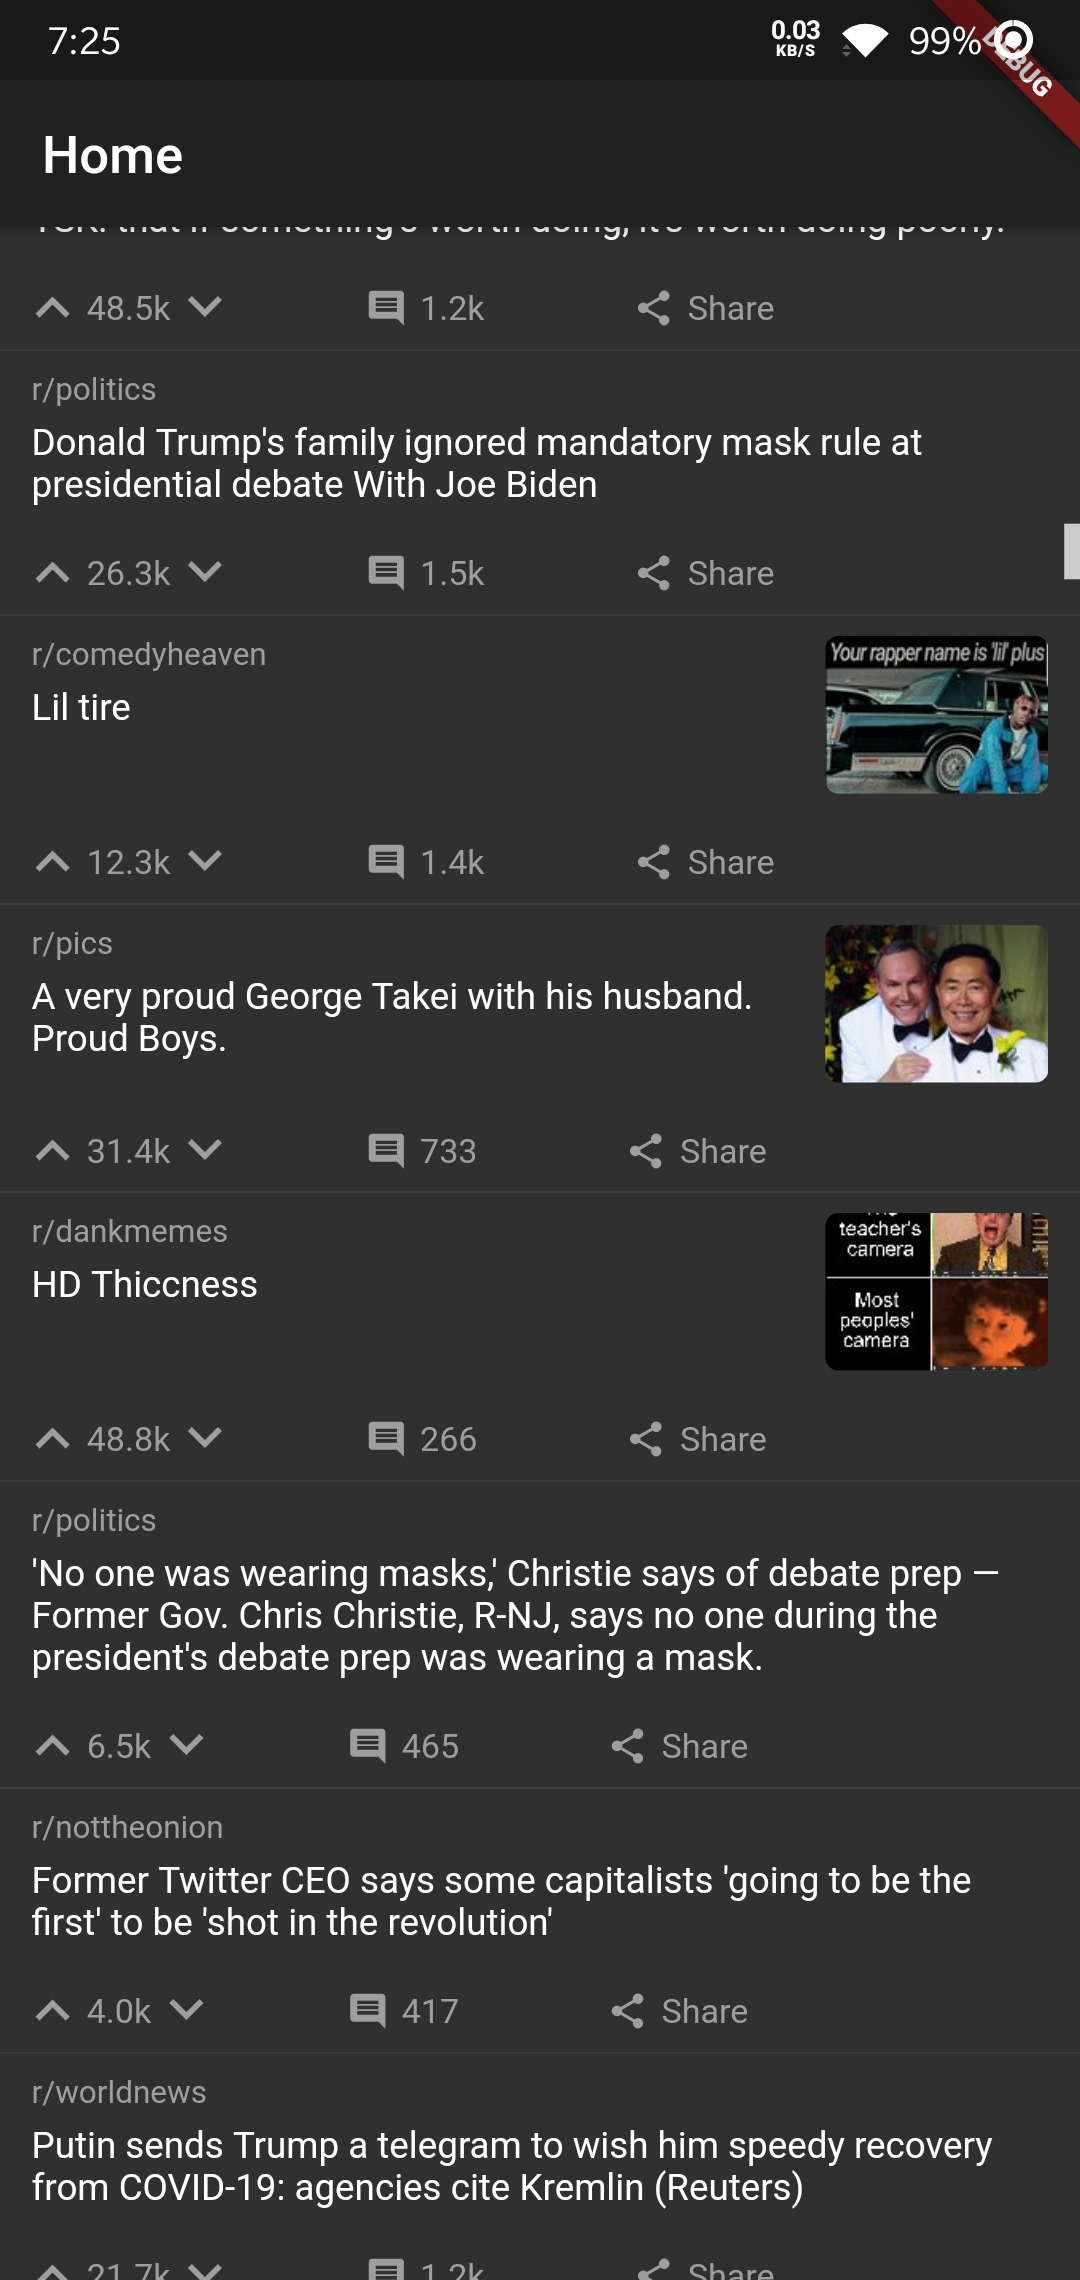
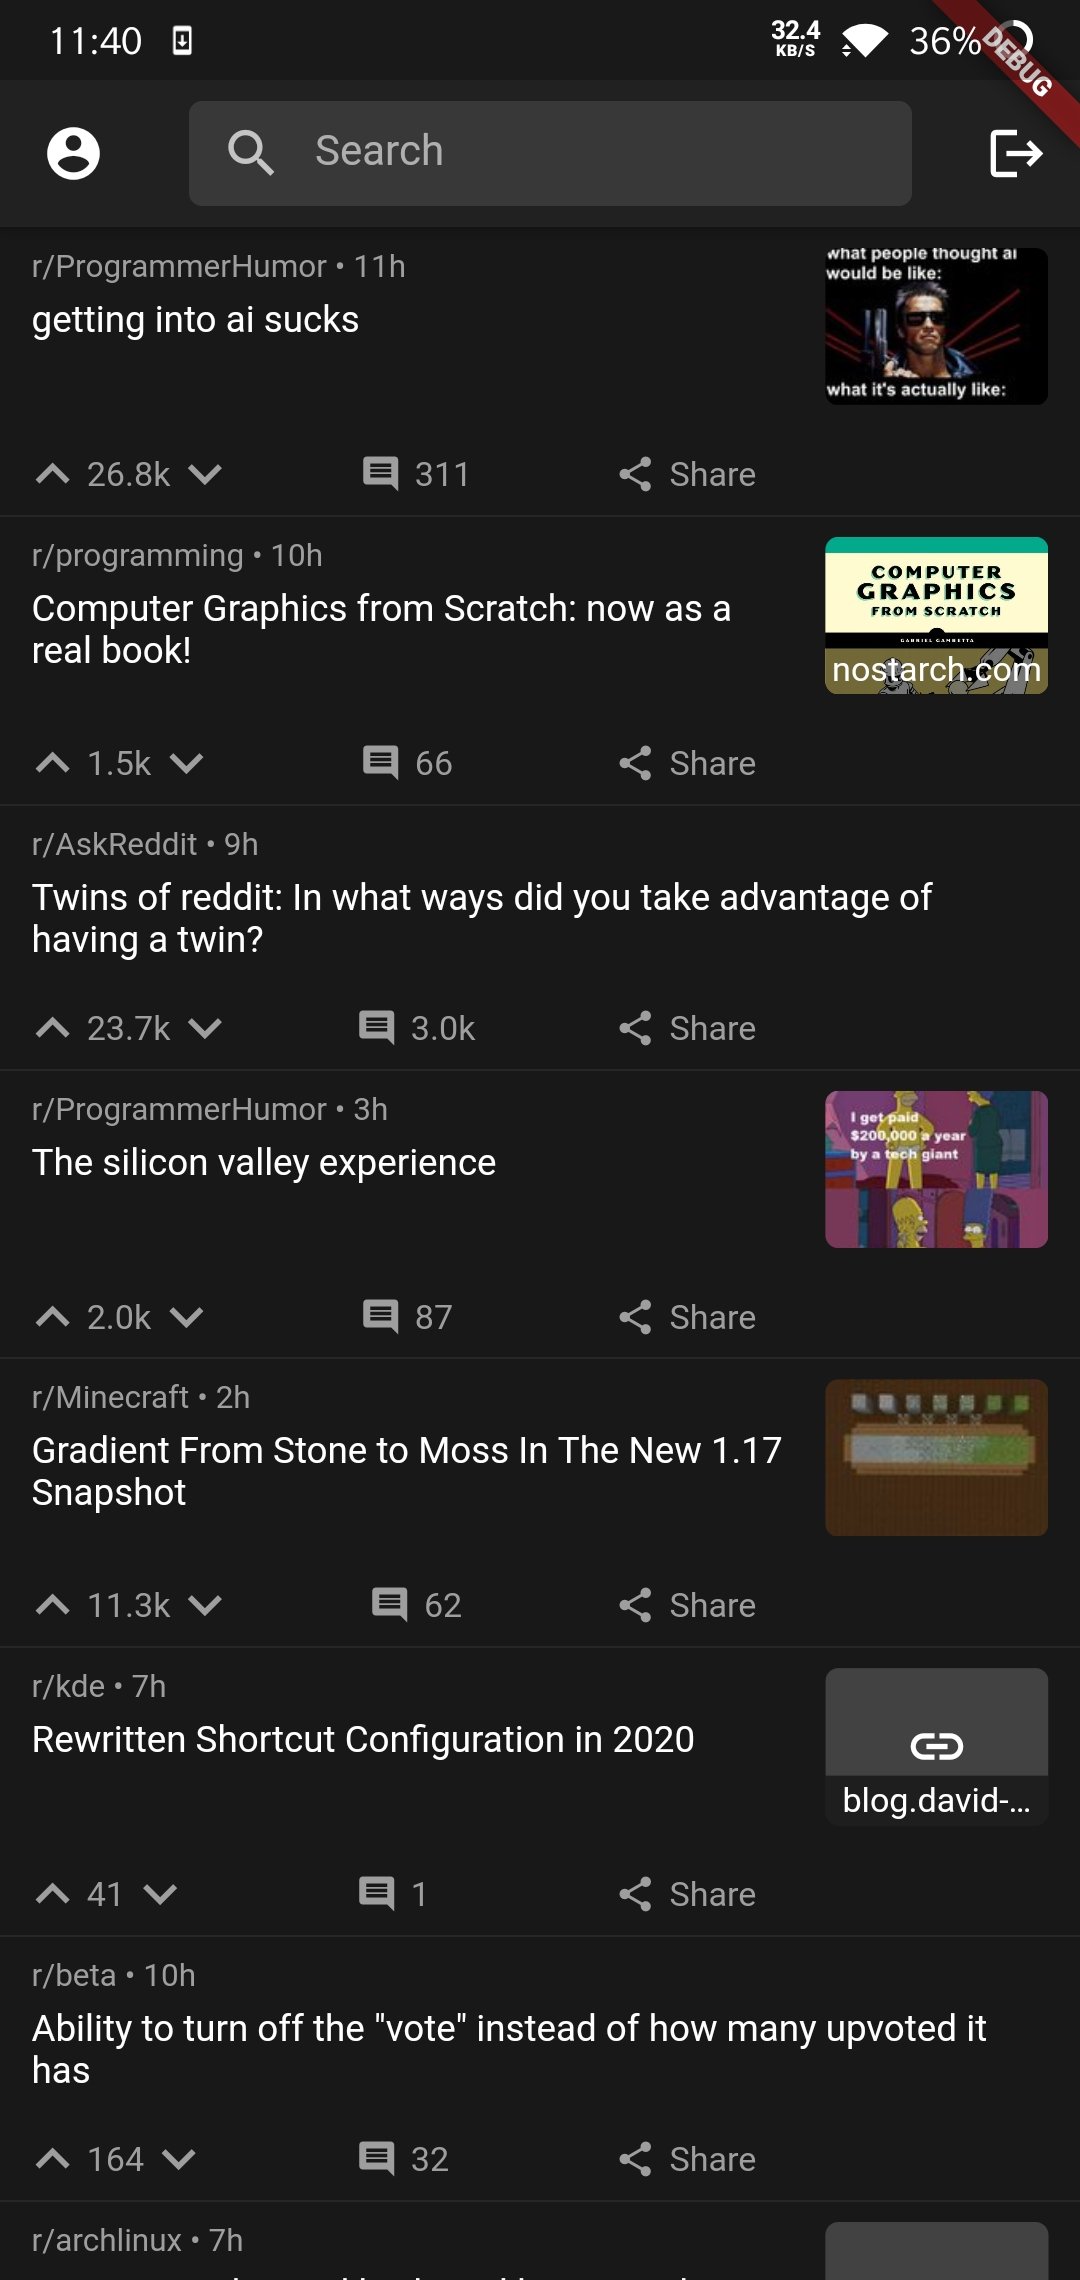
Markdown support & subreddit search bar
The searching functionality is not yet functional. Tapping on a
subreddit doesn't do anything.

diff --git a/lib/small_screens/post.dart b/lib/small_screens/post.dart
@@ -136,12 +136,15 @@ class _PostState extends State<Post> {
               }
               return Padding(
                 padding: EdgeInsets.all(15.0),
-                child: Text(post.selftext),
+                child: markdownRedditText(post.selftext),
               );
             }
 
-            var isLink = !post.isRedditMediaDomain && post.domain != "i.imgur.com";
-            var isImage = (post.isRedditMediaDomain || post.domain == "i.imgur.com") && !post.isVideo;
+            var isLink =
+                !post.isRedditMediaDomain && post.domain != "i.imgur.com";
+            var isImage =
+                (post.isRedditMediaDomain || post.domain == "i.imgur.com") &&
+                    !post.isVideo;
             var isVideo = post.isVideo;
 
             var widget = Stack(
@@ -310,7 +313,8 @@ class _PostState extends State<Post> {
           InkWell(
             onTap: () {
               Share.share(
-                  shortLink(context.read<AppModel>().reddit, post).toString());
+                shortLink(context.read<AppModel>().reddit, post).toString(),
+              );
             },
             child: Padding(
               padding: const EdgeInsets.all(8.0),
@@ -354,6 +358,8 @@ class _PostState extends State<Post> {
         ],
       );
     } else if (c is Comment) {
+      // c.reddit.subreddit("u_${c.author}").populate().then((value) => print(value.iconImage));
+
       return Padding(
         padding: const EdgeInsets.only(left: 15, top: 15),
         child: Column(
@@ -382,7 +388,7 @@ class _PostState extends State<Post> {
             Padding(
               // Avoid scrollbar covering the text
               padding: const EdgeInsets.only(right: 10),
-              child: Text(c.body),
+              child: markdownRedditText(c.body),
             ),
             Padding(padding: EdgeInsets.only(top: 5)),
             _buildCommentActionButtons(c),

diff --git a/lib/small_screens/subreddit_search_bar.dart b/lib/small_screens/subreddit_search_bar.dart
@@ -1,0 +1,51 @@
+import 'package:draw/draw.dart';
+import 'package:flutter/material.dart';
+import 'package:flutter_typeahead/flutter_typeahead.dart';
+import 'package:provider/provider.dart';
+import 'package:starboard/app_models/app_model.dart';
+
+class SubredditSearchBar extends StatefulWidget {
+  @override
+  _SubredditSearchBarState createState() => _SubredditSearchBarState();
+}
+
+class _SubredditSearchBarState extends State<SubredditSearchBar> {
+  @override
+  Widget build(BuildContext context) {
+    return Container(
+      height: 40,
+      child: TypeAheadField(
+        hideOnEmpty: true,
+        hideOnLoading: true,
+        hideOnError: true,
+        textFieldConfiguration: TextFieldConfiguration(
+          decoration: InputDecoration(
+            contentPadding: EdgeInsets.zero,
+            filled: true,
+            prefixIcon: Icon(Icons.search),
+            hintText: "Search",
+            border: OutlineInputBorder(
+              borderRadius: BorderRadius.circular(5.0),
+              borderSide: BorderSide.none,
+            ),
+          ),
+        ),
+        suggestionsBoxDecoration:
+            SuggestionsBoxDecoration(color: Colors.grey.shade900),
+        suggestionsCallback: (pattern) {
+          var reddit = context.read<AppModel>().reddit;
+          return reddit.subreddits.searchByName(pattern);
+        },
+        itemBuilder: (context, SubredditRef subreddit) {
+          return ListTile(
+            leading: Icon(Icons.public, color: Colors.blue),
+            title: Text("r/${subreddit.displayName}"),
+          );
+        },
+        onSuggestionSelected: (suggestion) {
+          print(suggestion);
+        },
+      ),
+    );
+  }
+}

diff --git a/lib/small_screens/home_feed.dart b/lib/small_screens/home_feed.dart
@@ -7,6 +7,7 @@ import 'package:share/share.dart';
 import 'package:starboard/app_models/app_model.dart';
 import 'package:starboard/app_models/home_feed.dart';
 import 'package:starboard/small_screens/image_viewer.dart';
+import 'package:starboard/small_screens/subreddit_search_bar.dart';
 import 'package:starboard/util.dart';
 import 'package:url_launcher/url_launcher.dart';
 
@@ -35,7 +36,11 @@ class _HomeFeedState extends State<HomeFeed> {
   Widget build(BuildContext context) {
     return Scaffold(
       appBar: AppBar(
-        title: Text('Starboard'),
+        leading: IconButton(
+          icon: Icon(Icons.account_circle),
+          onPressed: () {},
+        ),
+        title: SubredditSearchBar(),
         centerTitle: true,
         actions: [
           // Logout button.
@@ -143,7 +148,9 @@ class _HomeFeedState extends State<HomeFeed> {
             }
 
             var isLink = !post.isRedditMediaDomain;
-            var isImage = (post.isRedditMediaDomain || post.domain == "i.imgur.com") && !post.isVideo;
+            var isImage =
+                (post.isRedditMediaDomain || post.domain == "i.imgur.com") &&
+                    !post.isVideo;
             var isVideo = post.isVideo;
 
             String thumbnail;

diff --git a/lib/util.dart b/lib/util.dart
@@ -1,5 +1,8 @@
 import 'package:draw/draw.dart';
 import 'package:flutter/material.dart';
+import 'package:flutter_markdown/flutter_markdown.dart';
+import 'package:html_unescape/html_unescape_small.dart';
+import 'package:url_launcher/url_launcher.dart';
 
 String formatBigNumber(int n) {
   var abs = n.abs();
@@ -47,5 +50,22 @@ Widget inkwellOverWidget({@required Widget widget, @required Function onTap}) {
         ),
       )
     ],
+  );
+}
+
+Widget markdownRedditText(String text) {
+  return MarkdownBody(
+    inlineSyntaxes: [],
+    data: HtmlUnescape().convert(text),
+    onTapLink: (_text, href, _title) => launch(href),
+    styleSheet: MarkdownStyleSheet(
+      a: TextStyle(decoration: TextDecoration.underline),
+      blockquoteDecoration: BoxDecoration(
+        border: Border(
+          left: BorderSide(color: Colors.blue, width: 2),
+        ),
+      ),
+      blockquotePadding: EdgeInsets.only(left: 10, top: 2, bottom: 2),
+    ),
   );
 }
